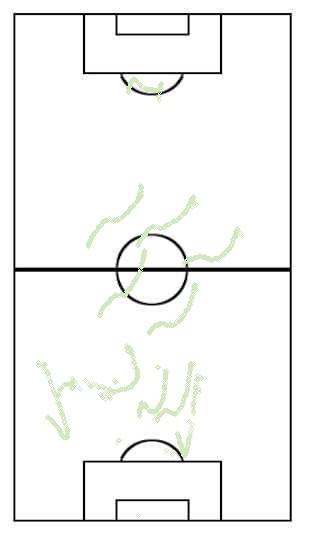
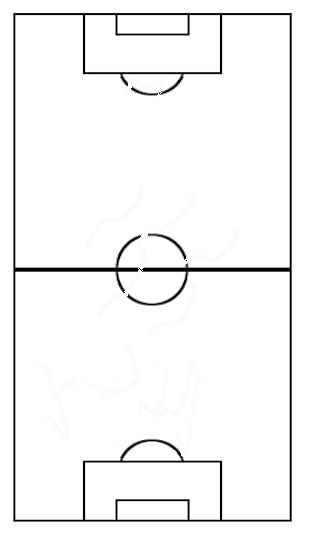
heatmap added

diff --git a/Streamlit web app/detection.py b/Streamlit web app/detection.py
@@ -72,6 +72,11 @@ def detect(cap, stframe,heatmap1,heatmap2, output_file_name, save_output, model_
             hyper_params, ball_track_hyperparams, plot_hyperparams, num_pal_colors, colors_dic, color_list_lab):
     # cap:- Likely an OpenCV video capture object (cv2.VideoCapture()) used to process video frames.
     # stframe:- Appears to be related to Streamlit, meaning the function may be displaying real-time detection output in a Streamlit app.
+    
+    # Initialize variables for heatmap
+    team_a_positions = []
+    team_b_positions = []
+    team_names = list(colors_dic.keys())
 
     show_k = plot_hyperparams[0]
     show_pal = plot_hyperparams[1]
@@ -358,7 +363,16 @@ def detect(cap, stframe,heatmap1,heatmap2, output_file_name, save_output, model_
             # Loop over all detected object by players detection model
             for i in range(bboxes_p.shape[0]):
                 conf = confs_p[i]                                                                               # Get confidence of current detected object
-                if labels_p[i]==0:                                                                              # Display annotation for detected players (label 0)
+                if labels_p[i]==0:   
+                    if 'homog' in locals():
+                        team_name = list(colors_dic.keys())[players_teams_list[j]]
+                        player_pos = (int(pred_dst_pts[j][0]), int(pred_dst_pts[j][1])) 
+
+                        # Store positions for respective teams
+                        if team_name == team_names[0]:
+                            team_a_positions.append(player_pos)
+                        elif team_name == team_names[1]:
+                            team_b_positions.append(player_pos)                                                                          # Display annotation for detected players (label 0)
                     
                     # Display extracted color palette for each detected player
                     if show_pal:
@@ -444,12 +458,48 @@ def detect(cap, stframe,heatmap1,heatmap2, output_file_name, save_output, model_
             #cv2.imshow("YOLOv8 Inference", frame)
             if save_output:
                 output.write(cv2.resize(final_img, (width, height)))
+
+    # After the loop, generate and save heatmaps
+    def create_heatmap(positions, base_map, output_path):
+        # Create a blank heatmap array
+        heatmap_data = np.zeros((base_map.shape[0], base_map.shape[1]))
         
+        # Add points to heatmap
+        for x, y in positions:
+            if 0 <= x < heatmap_data.shape[1] and 0 <= y < heatmap_data.shape[0]:
+                heatmap_data[y, x] += 1
+        
+        # Apply Gaussian blur to smooth the heatmap
+        heatmap_data = gaussian_filter(heatmap_data, sigma=20)
+        
+        # Normalize heatmap data
+        if heatmap_data.max() > 0:
+            heatmap_data = heatmap_data / heatmap_data.max()
+        
+        # Create heatmap visualization
+        plt.figure(figsize=(base_map.shape[1]/100, base_map.shape[0]/100))
+        plt.imshow(cv2.cvtColor(base_map, cv2.COLOR_BGR2RGB))
+        plt.imshow(heatmap_data, cmap='hot', alpha=0.6, interpolation='nearest')
+        plt.axis('off')
+        
+        # Save the heatmap
+        plt.savefig(output_path, bbox_inches='tight', pad_inches=0)
+        plt.close()
+        
+        # Load the saved heatmap as an image
+        heatmap_img = cv2.imread(output_path)
+        return heatmap_img 
+
     cv2.imwrite(os.path.join("./outputs","output_image_team_A.jpg"),tac_map_copy_team_a)
     cv2.imwrite(os.path.join("./outputs","output_image_team_B.jpg"),tac_map_copy_team_b)
     
-    heatmap1.image(tac_map_copy_team_a, channels="BGR")
-    heatmap2.image(tac_map_copy_team_b, channels="BGR")
+   # Generate and save heatmaps for both teams
+    heatmap_team_a = create_heatmap(team_a_positions, tac_map, './outputs/heatmap_team_A.jpg')
+    heatmap_team_b = create_heatmap(team_b_positions, tac_map, './outputs/heatmap_team_B.jpg')
+    
+    # Update Streamlit display
+    heatmap1.image(heatmap_team_a, channels="BGR")
+    heatmap2.image(heatmap_team_b, channels="BGR")
 
     # Remove progress bar and return        
     st_prog_bar.empty()

diff --git a/Streamlit web app/app.py b/Streamlit web app/app.py
@@ -7,7 +7,8 @@ from streamlit_image_coordinates import streamlit_image_coordinates
 import cv2
 from ultralytics import YOLO
 from detection import create_colors_info, detect
-
+import matplotlib.pyplot as plt  # Added for heatmap
+from scipy.ndimage import gaussian_filter  # Added for heatmap
 
 
 def main():
@@ -163,10 +164,10 @@ def main():
         st.markdown("---")
         ccol1, ccol2 = st.columns([1,1])
         with ccol1:
-            st.write(f'{team1_name}')
+            st.write(f'{team1_name} HeatMap')
             heatmap1 = st.empty()
         with ccol2:
-            st.write(f'{team2_name}')
+            st.write(f'{team2_name} HeatMap')
             heatmap2 = st.empty()
         st.markdown("---")
         
